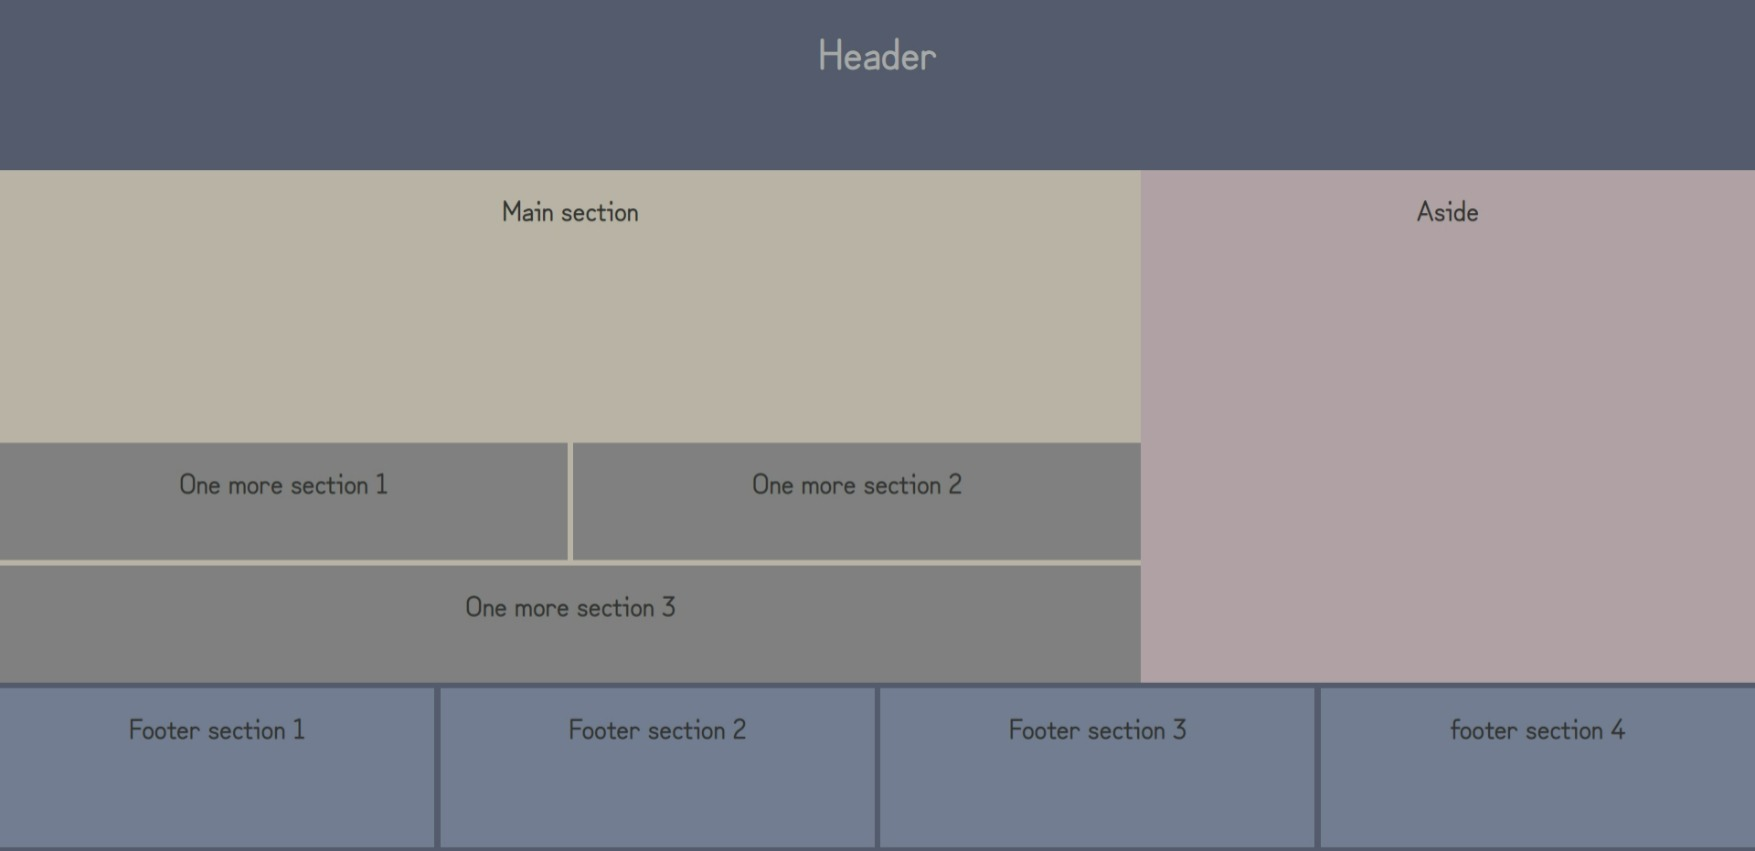
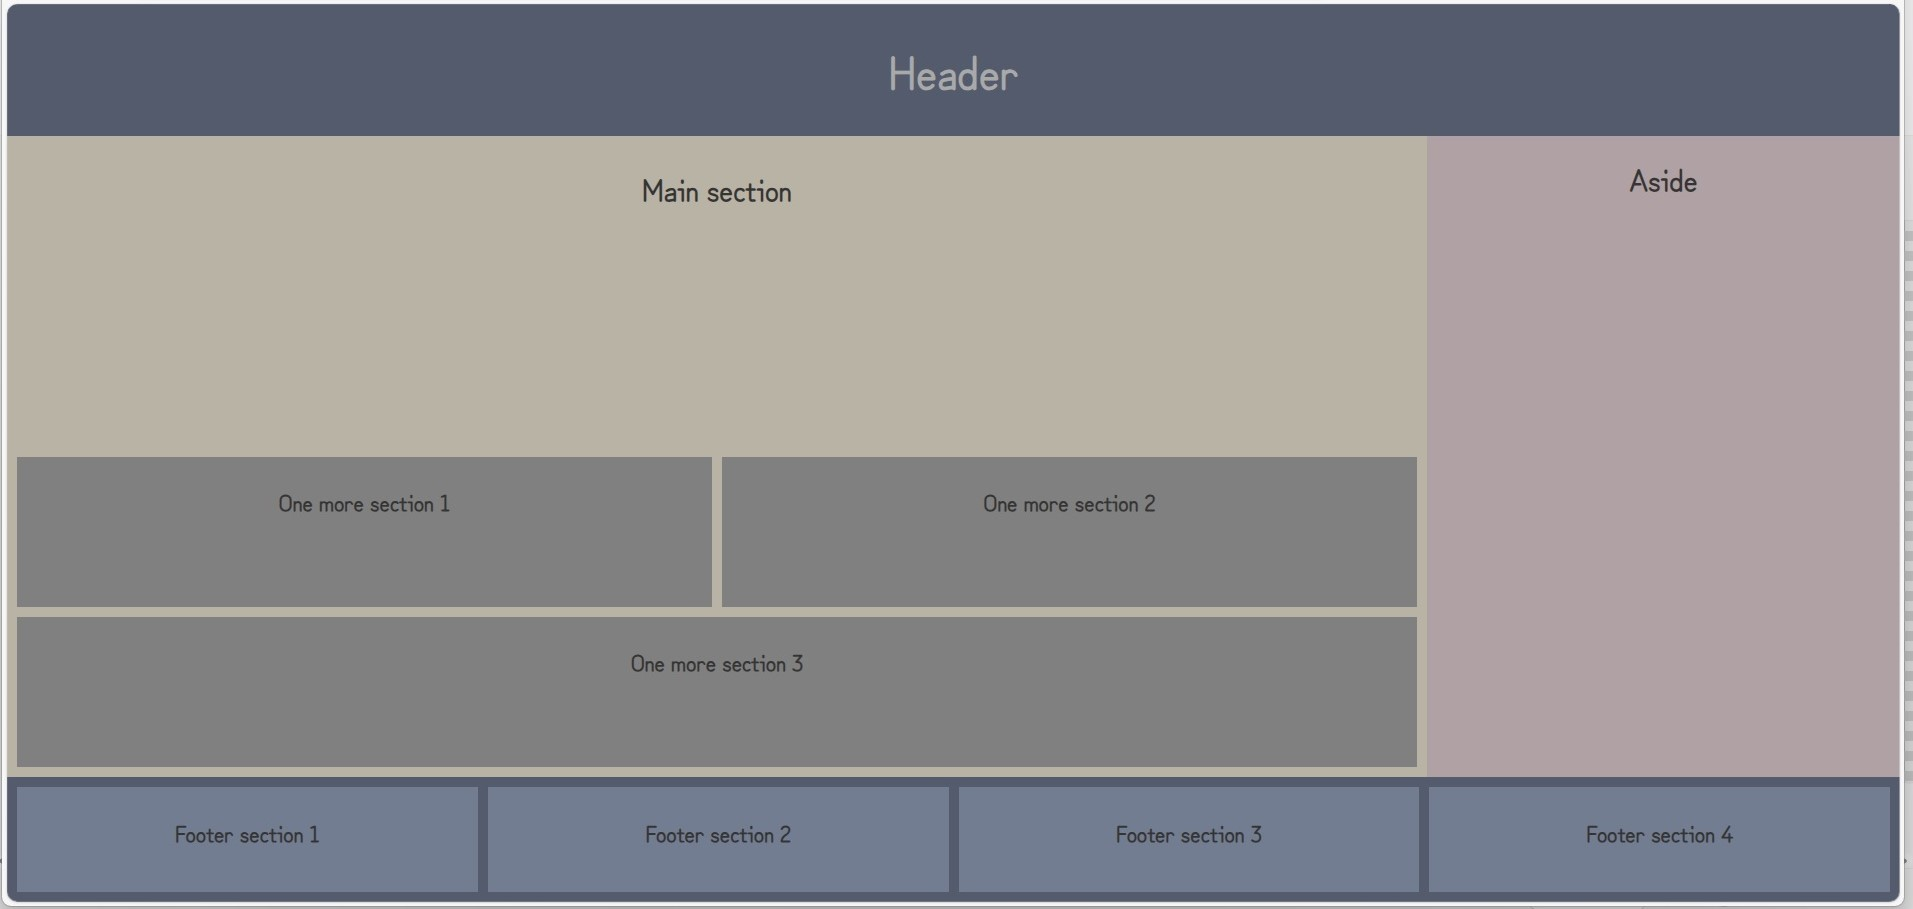
upd

diff --git a/grid-exercise.css b/grid-exercise.css
@@ -2,35 +2,43 @@ body {
   min-width: 350px;
   min-height: 100vh;
   box-sizing: border-box;
+  background-color: #545b6d;
+  font-family: "Zen Kurenaido", sans-serif;
+  font-size: 24px;
+  text-align: center;
+  color: rgb(53, 52, 52);
 }
-/*=================Позиционирование==================*/
+
 .grid-container {
+  width: 100%;
+  min-height: 100vh;
+  background-color: #545b6d;
   display: grid;
-  grid-template-columns: 1.3fr 1.3fr 0.4fr 1fr;
-  grid-template-rows: 1fr 1fr 1fr 1fr 1fr;
-  gap: 0px 0px;
+  grid-template-columns: 3fr 1fr;
+  grid-template-rows: minmax(100px, auto) 1fr minmax(100px, auto);
   grid-template-areas:
-    "header header header header"
-    "main-content main-content aside aside"
-    "main-content main-content aside aside"
-    "main-content main-content aside aside"
-    "footer footer footer footer";
+    "header header"
+    "main-content aside"
+    "footer footer";
 }
 
 .header {
   grid-area: header;
+  padding: 8px;
 }
 
 .main-content {
+  grid-area: main-content;
   display: grid;
   grid-template-columns: 1fr 1fr;
-  grid-template-rows: 1.6fr 0.7fr 0.7fr;
-  gap: 5px 5px;
+  grid-template-rows: 1fr repeat(2, 0.5fr);
+  padding: 8px;
+  gap: 8px;
   grid-template-areas:
     "main-text main-text"
     "chapter-1 chapter-2"
     "chapter-3 chapter-3";
-  grid-area: main-content;
+  background-color: #b8b3a5;
 }
 
 .main-text {
@@ -49,84 +57,39 @@ body {
   grid-area: chapter-3;
 }
 
+.main-content article {
+  background-color: #808080;
+  padding: 8px;
+}
+
 .aside {
   grid-area: aside;
-}
-
-.footer {
-  display: grid;
-  grid-template-columns: repeat(4, 1fr);
-  grid-template-rows: 1fr;
-  gap: 5px;
-  grid-template-areas: "section-1 section-2 section-3 section-4";
-  grid-area: footer;
-}
-
-.section-1 {
-  grid-area: section-1;
-}
-
-.section-2 {
-  grid-area: section-2;
-}
-
-.section-3 {
-  grid-area: section-3;
-}
-
-.section-4 {
-  grid-area: section-4;
-}
-
-/*===================Оформление=====================*/
-.grid-container {
-  width: 100%;
-  height: 100vh;
-}
-
-.header {
-  background-color: #545b6d;
-}
-
-.main-content {
-  background-color: #b8b3a5;
-}
-
-.chapter-1,
-.chapter-2,
-.chapter-3 {
-  background-color: #808080;
-}
-
-.aside {
   background-color: #b0a1a4;
 }
 
 .footer {
-  background-color: #545b6d;
+  grid-area: footer;
+  display: grid;
+  grid-template-columns: repeat(4, 1fr);
+  grid-template-rows: 1fr;
+  padding: 8px;
+  gap: 8px;
 }
 
-.section-1,
-.section-2,
-.section-3,
-.section-4 {
+.footer section {
   background-color: #727d91;
-  margin-top: 5px;
-  margin-bottom: 5px;
-}
-
-h1,
-h2,
-p {
-  font-family: "Zen Kurenaido", sans-serif;
-  font-size: 24px;
-  text-align: center;
-  color: rgb(53, 52, 52);
+  padding: 8px;
 }
 
 h1 {
-  font-family: "Zen Kurenaido", sans-serif;
   font-size: 36px;
-  text-align: center;
   color: darkgray;
+}
+
+h2 {
+  font-size: 24px;
+}
+
+h3 {
+  font-size: 18px;
 }

diff --git a/index.html b/index.html
@@ -18,37 +18,37 @@
   <body>
     <div class="grid-container">
       <header class="header">
-        <h1 class="header-text">Header</h1>
+        <h1>Header</h1>
       </header>
       <div class="main-content">
         <div class="main-text">
           <h2>Main section</h2>
         </div>
-        <div class="chapter-1">
-          <h2>One more section 1</h2>
-        </div>
-        <div class="chapter-2">
-          <h2>One more section 2</h2>
-        </div>
-        <div class="chapter-3">
-          <h2>One more section 3</h2>
-        </div>
+        <article class="chapter-1">
+          <h3>One more section 1</h3>
+        </article>
+        <article class="chapter-2">
+          <h3>One more section 2</h3>
+        </article>
+        <article class="chapter-3">
+          <h3>One more section 3</h3>
+        </article>
       </div>
       <aside class="aside">
         <h2>Aside</h2>
       </aside>
       <footer class="footer">
-        <section class="section-1">
-          <h2>Footer section 1</h2>
+        <section>
+          <h3>Footer section 1</h3>
         </section>
-        <section class="section-2">
-          <h2>Footer section 2</h2>
+        <section>
+          <h3>Footer section 2</h3>
         </section>
-        <section class="section-3">
-          <h2>Footer section 3</h2>
+        <section>
+          <h3>Footer section 3</h3>
         </section>
-        <section class="section-4">
-          <h2>footer section 4</h2>
+        <section>
+          <h3>Footer section 4</h3>
         </section>
       </footer>
     </div>
